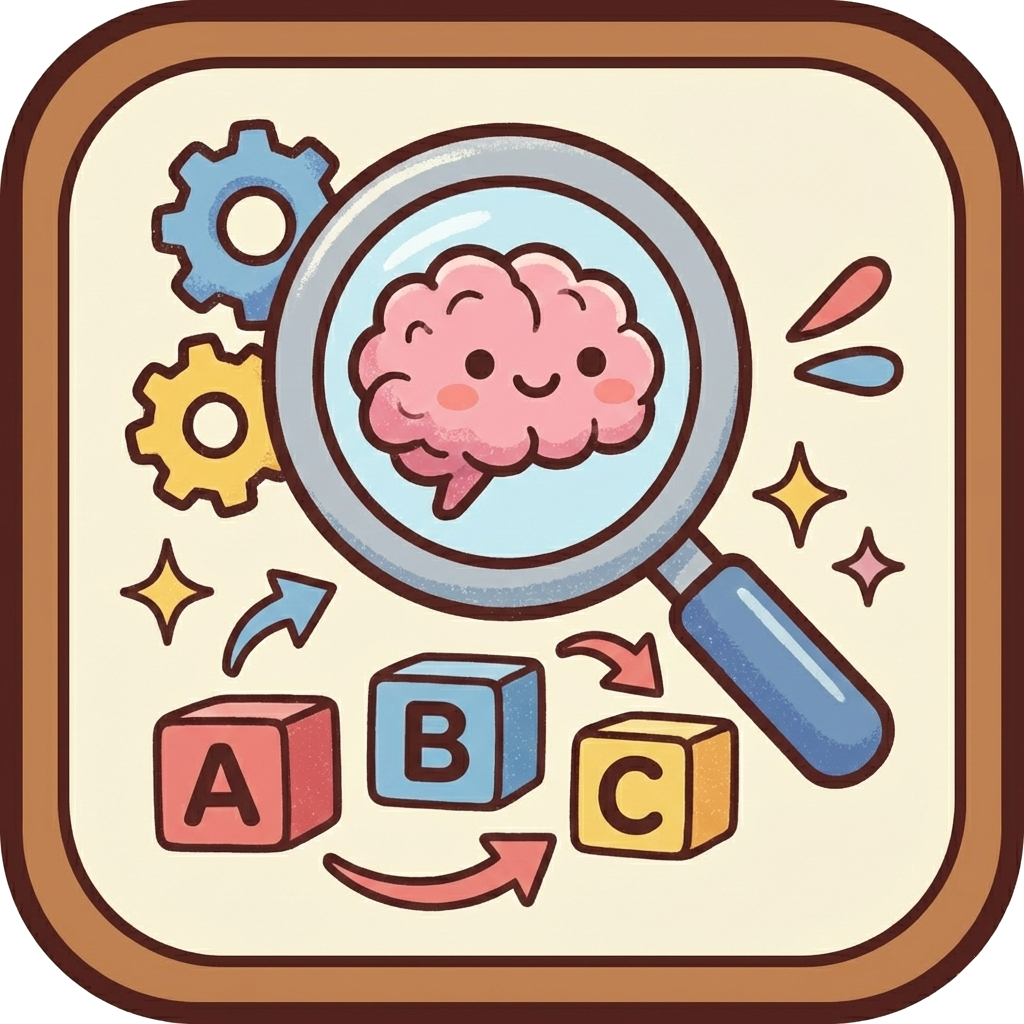
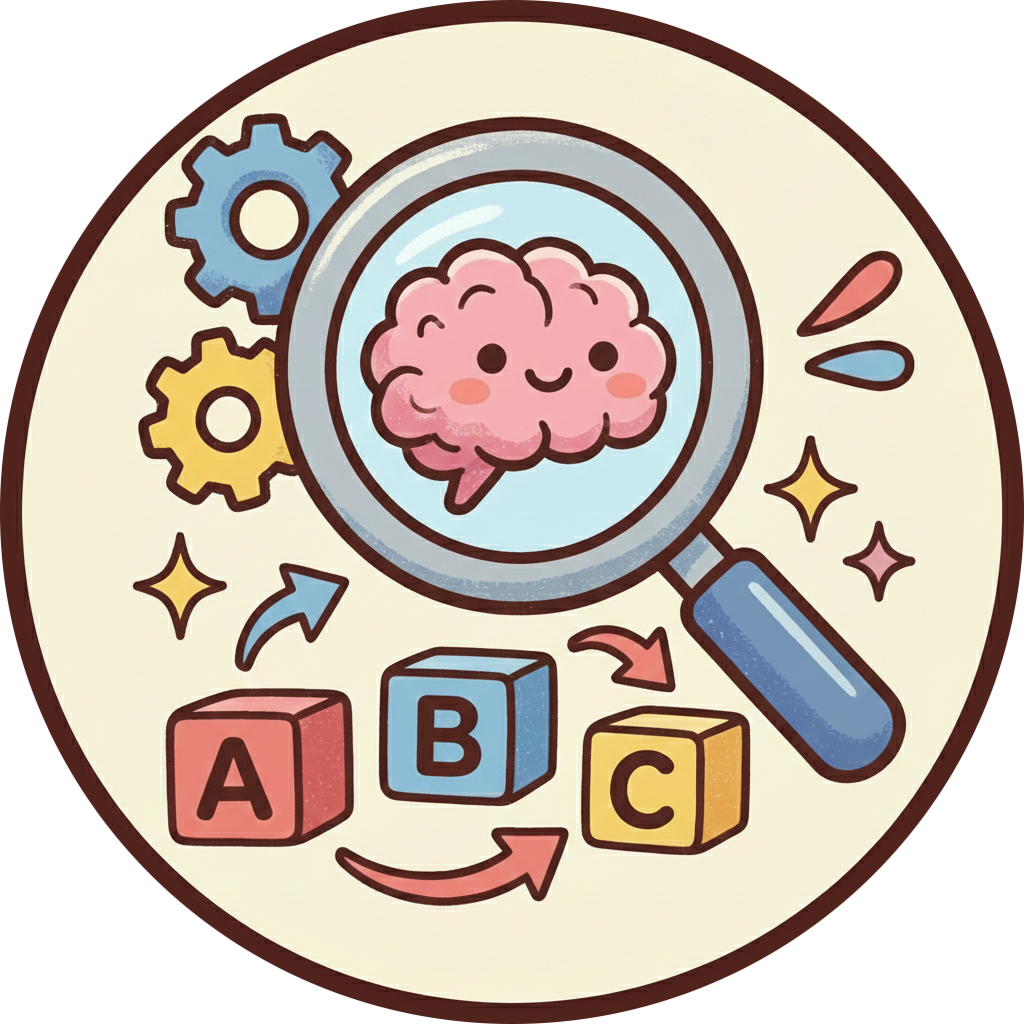
AndroidShell向け丸形アイコンを再生成
更新したAnagramAnalyzerICON素材からmipmap各解像度のic_launcher/ic_launcher_roundを再生成し、関連ドキュメントを更新。

diff --git a/CHANGELOG.md b/CHANGELOG.md
@@ -119,6 +119,7 @@
 - `Android UI Tests` ワークフローの `android/.gradle/configuration-cache` キャッシュキーに `github.sha` を追加し、古いコミットのConfiguration Cache再利用で発生する `:app:mergeDebugAndroidTestAssets`（AAR欠損）失敗を回避
 - Android `MainScreenTest` の「候補詳細画面でシステム戻るキー操作で戻れる」を `Espresso.pressBack()` から `onBackPressedDispatcher` 呼び出しへ変更し、CI環境での `ComposeTimeoutException` 発生を抑制
 - 更新済み `asset/AnagramAnalyzerICON.png` をもとに Android ランチャーアイコン（`mipmap-*/ic_launcher.png` / `ic_launcher_round.png`）を再生成し、密度別サイズ（48/72/96/144/192px）へ正規化
+- AndroidShell向け丸形アイコン素材の更新に合わせて、`asset/AnagramAnalyzerICON.png` から Android ランチャーアイコンを再生成
 
 ## [0.1.0] - 2026-02-07
 

diff --git a/tasks.md b/tasks.md
@@ -47,6 +47,7 @@
 - [x] 手動テスト可能な最小フロー（debug APKビルド + 入力確認手順）
 - [x] ランチャーアイコンをアプリ専用画像へ差し替え
 - [x] 更新済み `asset/AnagramAnalyzerICON.png` から Android ランチャーアイコン（`mipmap-*/ic_launcher*.png`）を再生成
+- [x] AndroidShell向け丸形アイコン更新後、`asset/AnagramAnalyzerICON.png` からランチャーアイコンを再生成
 - [x] 候補詳細画面（漢字表記・意味表示）
 - [x] 候補詳細画面の最小実装（読み表示 + 漢字/意味プレースホルダ、旧: ダイアログ）
 - [x] 候補詳細画面で漢字/意味のseed実データ表示（未収録語はプレースホルダ、旧: ダイアログ）
